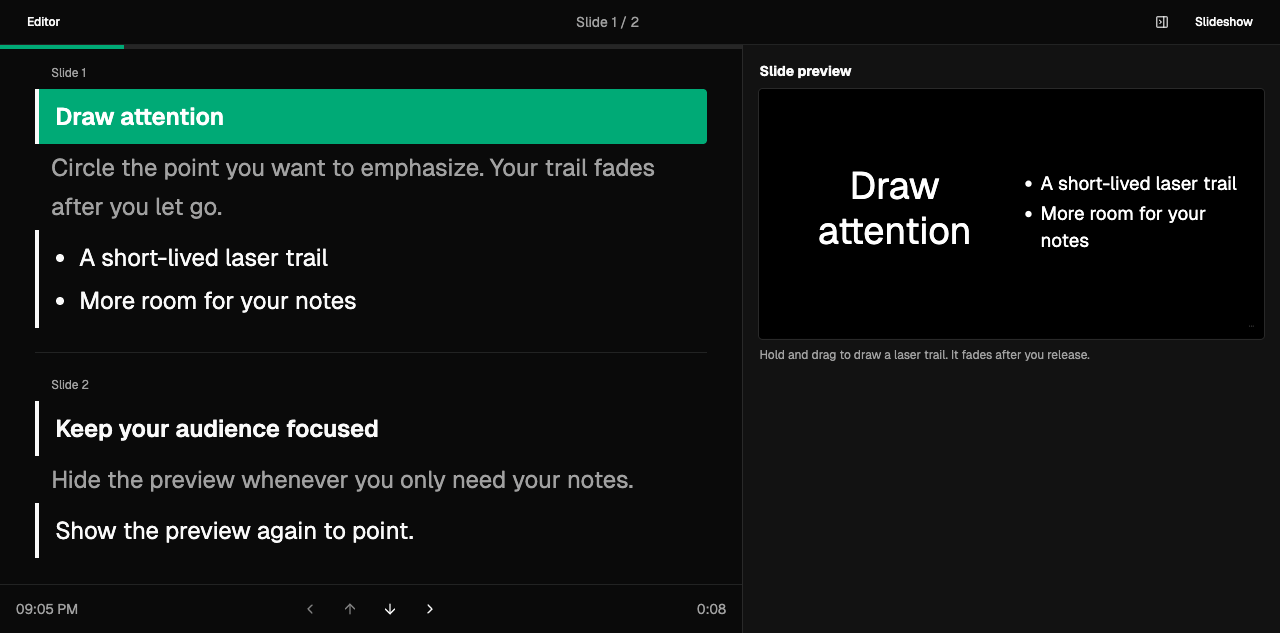
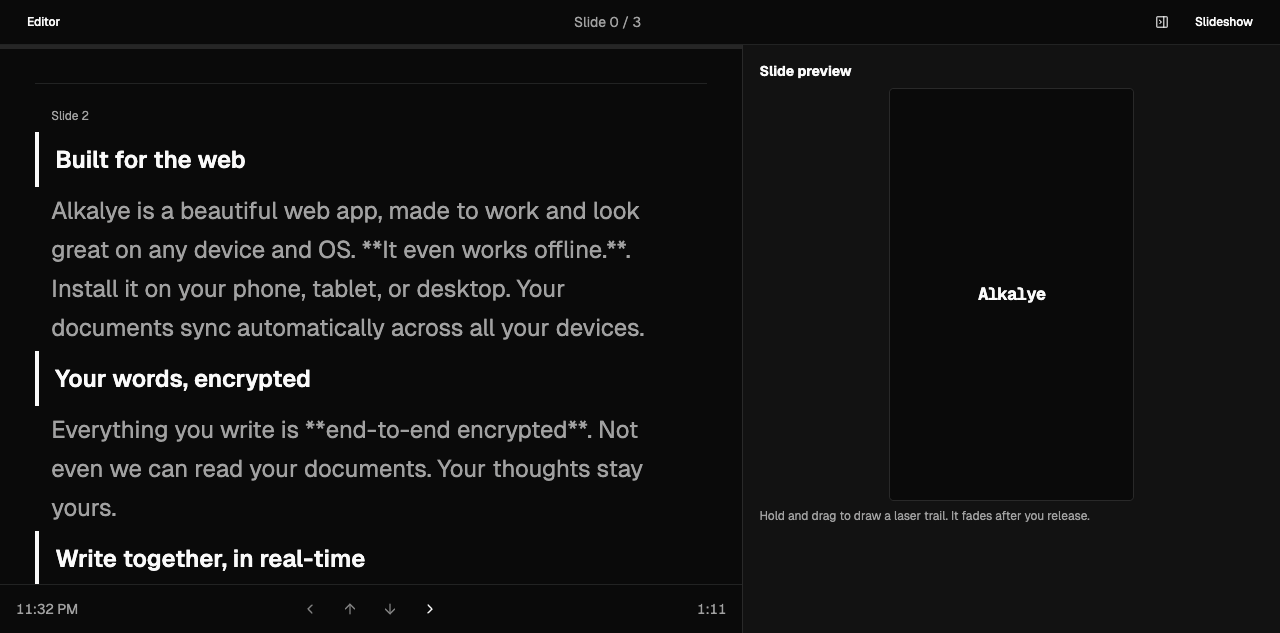
Use a laser preview dialog on narrow screens
written with GPT-6 in Codex

diff --git a/src/app/features/presentation/widgets/laser-pointer.tsx b/src/app/features/presentation/widgets/laser-pointer.tsx
@@ -1,5 +1,13 @@
 import { useEffect, useRef, useState, type PointerEvent } from "react"
 import { useAccount } from "jazz-tools/react"
+import {
+	Dialog,
+	DialogContent,
+	DialogTitle,
+	DialogClose,
+} from "@/app/components/ui/dialog"
+import { Button } from "@/app/components/ui/button"
+import { X } from "lucide-react"
 import { UserAccount } from "@/schema"
 import { createLaserChannel } from "../lib/laser-channel"
 import {
@@ -118,9 +126,13 @@ function LaserReceiver({
 function LaserPreview({
 	docId,
 	visible = true,
+	dialog = false,
+	onClose,
 }: {
 	docId: string
 	visible?: boolean
+	dialog?: boolean
+	onClose?: () => void
 }) {
 	let t = useIntl()
 	let me = useAccount(UserAccount)
@@ -128,7 +140,6 @@ function LaserPreview({
 	let [selectedId, setSelectedId] = useState<string | null>(null)
 	let [previewSize, setPreviewSize] = useState({ width: 0, height: 0 })
 	let channelRef = useRef<ReturnType<typeof createLaserChannel> | null>(null)
-	let containerRef = useRef<HTMLDivElement>(null)
 	let iframeRef = useRef<HTMLIFrameElement>(null)
 	let trailRef = useRef<LaserTrailController | null>(null)
 	let pointRef = useRef<LaserPoint | null>(null)
@@ -231,6 +242,7 @@ function LaserPreview({
 		trailRef.current?.clear()
 	}, [
 		visible,
+		dialog,
 		target?.id,
 		target?.slideNumber,
 		target?.width,
@@ -238,18 +250,22 @@ function LaserPreview({
 		target?.appearance,
 	])
 
-	useEffect(() => {
-		let container = containerRef.current
+	function observePreview(container: HTMLDivElement | null) {
 		if (!container) return
-		let observer = new ResizeObserver(() =>
-			setPreviewSize({
-				width: container.clientWidth,
-				height: container.clientHeight,
-			}),
-		)
+		function measure() {
+			if (!container) return
+			let width = container.clientWidth
+			let height = container.clientHeight
+			setPreviewSize(current =>
+				current.width === width && current.height === height
+					? current
+					: { width, height },
+			)
+		}
+		let observer = new ResizeObserver(measure)
 		observer.observe(container)
 		return () => observer.disconnect()
-	}, [visible])
+	}
 
 	function endPointer(event: PointerEvent<HTMLDivElement>) {
 		if (activePointer.current !== event.pointerId) return
@@ -314,13 +330,17 @@ function LaserPreview({
 
 	if (!visible) return null
 
-	return (
+	let preview = (
 		<aside
-			className="bg-muted/30 order-first flex shrink-0 flex-col gap-2 border-b p-3 md:order-last md:w-[42%] md:border-b-0 md:border-l md:p-4"
+			className={
+				dialog
+					? "flex min-h-0 flex-1 flex-col justify-center gap-3"
+					: "bg-muted/30 flex w-[42%] shrink-0 flex-col gap-2 border-l p-4"
+			}
 			aria-label={t("presentation.laser.label")}
 		>
 			<div className="flex items-center justify-between gap-2 text-sm">
-				<strong>{t("presentation.laser.preview")}</strong>
+				{!dialog && <strong>{t("presentation.laser.preview")}</strong>}
 				{(displays.length > 1 || (!target && displays.length > 0)) && (
 					<select
 						aria-label={t("presentation.laser.target")}
@@ -344,8 +364,12 @@ function LaserPreview({
 				)}
 			</div>
 			<div
-				ref={containerRef}
-				className="flex max-h-[30svh] w-full items-center justify-center md:max-h-[65svh]"
+				ref={observePreview}
+				className={
+					dialog
+						? "flex max-h-[75svh] w-full items-center justify-center"
+						: "flex max-h-[65svh] w-full items-center justify-center"
+				}
 				style={{
 					aspectRatio: target
 						? `${target.width} / ${target.height}`
@@ -412,5 +436,35 @@ function LaserPreview({
 				</p>
 			)}
 		</aside>
+	)
+	if (!dialog) return preview
+	return (
+		<Dialog
+			open={visible}
+			onOpenChange={open => {
+				if (!open) onClose?.()
+			}}
+			disablePointerDismissal
+		>
+			<DialogContent
+				showCloseButton={false}
+				style={{
+					paddingTop: "max(1rem, env(safe-area-inset-top))",
+					paddingBottom: "max(1rem, env(safe-area-inset-bottom))",
+					paddingLeft: "max(1rem, env(safe-area-inset-left))",
+					paddingRight: "max(1rem, env(safe-area-inset-right))",
+				}}
+				className="inset-0 top-0 left-0 flex h-dvh max-w-none translate-x-0 flex-col sm:top-0 sm:max-w-none sm:translate-y-0"
+			>
+				<div className="flex shrink-0 items-center justify-between gap-2">
+					<DialogTitle>{t("presentation.laser.preview")}</DialogTitle>
+					<DialogClose render={<Button variant="ghost" size="sm" />}>
+						<X />
+						{t("presentation.laser.notes")}
+					</DialogClose>
+				</div>
+				{preview}
+			</DialogContent>
+		</Dialog>
 	)
 }

diff --git a/src/app/features/presentation/screens/teleprompter-screen.tsx b/src/app/features/presentation/screens/teleprompter-screen.tsx
@@ -7,6 +7,7 @@ import {
 	PanelRightClose,
 	PanelRightOpen,
 	Presentation,
+	Scan,
 } from "lucide-react"
 import { Document } from "@/schema"
 import {
@@ -27,6 +28,7 @@ import {
 	useDocTitles,
 	type ResolvedDoc,
 } from "@/app/features/documents"
+import { useWidePresentation } from "../lib/presentation-layout"
 import { LaserPreview } from "../widgets/laser-pointer"
 import { Teleprompter, groupBySlide } from "../widgets/teleprompter"
 import { parsePresentation } from "../lib/presentation"
@@ -64,11 +66,14 @@ interface TeleprompterScreenProps {
 
 function TeleprompterScreen({ id, loaderData }: TeleprompterScreenProps) {
 	let navigate = useNavigate()
-	let [previewVisible, setPreviewVisible] = useState(
-		() =>
-			typeof window !== "undefined" &&
-			window.matchMedia("(min-width: 768px)").matches,
-	)
+	let wide = useWidePresentation()
+	let [desktopPreview, setDesktopPreview] = useState(true)
+	let [mobilePreview, setMobilePreview] = useState(false)
+	let previewVisible = wide ? desktopPreview : mobilePreview
+	function setPreviewVisible(visible: boolean) {
+		if (wide) setDesktopPreview(visible)
+		else setMobilePreview(visible)
+	}
 
 	useScreenWakeLock()
 
@@ -138,6 +143,7 @@ function TeleprompterScreen({ id, loaderData }: TeleprompterScreenProps) {
 		<div className="bg-background fixed inset-0 flex flex-col">
 			<TopBar
 				id={id}
+				wide={wide}
 				previewVisible={previewVisible}
 				onTogglePreview={() => setPreviewVisible(!previewVisible)}
 				currentSlideIdx={currentSlideIdx}
@@ -146,6 +152,7 @@ function TeleprompterScreen({ id, loaderData }: TeleprompterScreenProps) {
 			<div className="flex min-h-0 flex-1 flex-col md:flex-row">
 				<div className="flex min-h-0 min-w-0 flex-1 flex-col">
 					<Teleprompter
+						inactive={!wide && mobilePreview}
 						items={items}
 						wikilinks={wikilinks}
 						presentationIndex={doc.presentationLine}
@@ -153,7 +160,13 @@ function TeleprompterScreen({ id, loaderData }: TeleprompterScreenProps) {
 						onExit={() => navigate({ to: "/doc/$id", params: { id } })}
 					/>
 				</div>
-				<LaserPreview key={id} docId={id} visible={previewVisible} />
+				<LaserPreview
+					key={id}
+					docId={id}
+					visible={previewVisible}
+					dialog={!wide}
+					onClose={() => setMobilePreview(false)}
+				/>
 			</div>
 		</div>
 	)
@@ -161,12 +174,14 @@ function TeleprompterScreen({ id, loaderData }: TeleprompterScreenProps) {
 
 function TopBar({
 	id,
+	wide,
 	previewVisible,
 	onTogglePreview,
 	currentSlideIdx,
 	totalSlides,
 }: {
 	id: string
+	wide: boolean
 	previewVisible: boolean
 	onTogglePreview: () => void
 	currentSlideIdx: number
@@ -205,10 +220,15 @@ function TopBar({
 							? "presentation.laser.hide"
 							: "presentation.laser.show",
 					)}
-					aria-pressed={previewVisible}
+					aria-pressed={wide ? previewVisible : undefined}
+					aria-haspopup={wide ? undefined : "dialog"}
+					aria-expanded={wide ? undefined : previewVisible}
 					onClick={onTogglePreview}
 				>
-					{previewVisible ? <PanelRightClose /> : <PanelRightOpen />}
+					<Scan className="md:hidden" />
+					<span className="hidden md:inline-flex">
+						{previewVisible ? <PanelRightClose /> : <PanelRightOpen />}
+					</span>
 					<span className="md:hidden">
 						{t(
 							previewVisible

diff --git a/src/app/features/presentation/widgets/laser-pointer.test.ts b/src/app/features/presentation/widgets/laser-pointer.test.ts
@@ -214,8 +214,8 @@ test("retains coalesced fast movement in the final synced message", () => {
 })
 
 function prepareSurface() {
-	let frame = container.querySelector("iframe")
-	let surface = container.querySelector("[data-laser-surface]")
+	let frame = document.querySelector("iframe")
+	let surface = document.querySelector("[data-laser-surface]")
 	if (!(surface instanceof HTMLElement) || !frame?.contentDocument)
 		throw new Error("Preview missing")
 	let slide = frame.contentDocument.createElement("div")
@@ -289,4 +289,39 @@ test("bounds stationary heartbeat traffic after drawing a full sample window", a
 		clock.mockRestore()
 		vi.useRealTimers()
 	}
+})
+
+test("closing the preview dialog releases a held gesture and preserves its target", async () => {
+	let { LaserPreview } = await import("./laser-pointer")
+	function render(visible: boolean) {
+		flushSync(() =>
+			root.render(
+				React.createElement(LaserPreview, {
+					docId: "doc",
+					visible,
+					dialog: true,
+					onClose: () => render(false),
+				}),
+			),
+		)
+	}
+	render(true)
+	advertise("first")
+	advertise("second")
+	await vi.waitFor(() =>
+		expect(document.querySelector("[role=dialog]")).not.toBeNull(),
+	)
+	let surface = prepareSurface()
+	surface.dispatchEvent(pointer("pointerdown", 1))
+	let close = document.querySelector("[data-slot=dialog-close]")
+	if (!(close instanceof HTMLElement)) throw new Error("Close control missing")
+	close.click()
+	await vi.waitFor(() =>
+		expect(document.querySelector("[role=dialog]")).toBeNull(),
+	)
+	expect(transport.sent.at(-1)).toMatchObject({ type: "point", visible: false })
+	render(true)
+	await vi.waitFor(() =>
+		expect(document.querySelector("select")?.value).toBe("first"),
+	)
 })

diff --git a/src/app/features/presentation/widgets/teleprompter.tsx b/src/app/features/presentation/widgets/teleprompter.tsx
@@ -25,6 +25,7 @@ let WikilinkContext = createContext<Map<string, ResolvedDoc>>(new Map())
 type SlideGroup = { slideNumber: number; items: PresentationItem[] }
 
 interface TeleprompterProps {
+	inactive?: boolean
 	items: PresentationItem[]
 	wikilinks: Map<string, ResolvedDoc>
 	presentationIndex: number | undefined
@@ -33,6 +34,7 @@ interface TeleprompterProps {
 }
 
 function Teleprompter({
+	inactive = false,
 	items,
 	wikilinks,
 	presentationIndex,
@@ -109,6 +111,7 @@ function Teleprompter({
 				</div>
 			</div>
 			<BottomToolbar
+				inactive={inactive}
 				items={items}
 				slideGroups={slideGroups}
 				presentationIndex={presentationIndex}
@@ -172,12 +175,14 @@ function ProgressBar({
 }
 
 function BottomToolbar({
+	inactive,
 	items,
 	slideGroups,
 	presentationIndex,
 	onIndexChange,
 	onExit,
 }: {
+	inactive: boolean
 	items: PresentationItem[]
 	slideGroups: SlideGroup[]
 	presentationIndex: number | undefined
@@ -228,6 +233,7 @@ function BottomToolbar({
 	}
 
 	useEffect(() => {
+		if (inactive) return
 		function handleKeyDown(e: KeyboardEvent) {
 			if (e.key === "Escape" && onExit) {
 				e.preventDefault()

diff --git a/src/app/features/presentation/lib/presentation-layout.ts b/src/app/features/presentation/lib/presentation-layout.ts
@@ -1,0 +1,19 @@
+import { useSyncExternalStore } from "react"
+
+export { useWidePresentation }
+
+let wideQuery = "(min-width: 768px)"
+
+function useWidePresentation() {
+	return useSyncExternalStore(subscribe, getSnapshot, () => false)
+}
+
+function getSnapshot() {
+	return window.matchMedia(wideQuery).matches
+}
+
+function subscribe(onChange: () => void) {
+	let query = window.matchMedia(wideQuery)
+	query.addEventListener("change", onChange)
+	return () => query.removeEventListener("change", onChange)
+}

diff --git a/docs/jazz.md b/docs/jazz.md
@@ -109,6 +109,12 @@ Deduplicate samples per stroke, including when controllers alternate. Slide and 
 the trail immediately. Cache the SVG path until its points change; fading only
 changes opacity. Hiding the preview preserves the chosen display for reopening.
 
+Below 768 px, the preview occupies a dialog instead of sharing space with the
+teleprompter. Keep the teleprompter mounted to preserve its scroll and timer, but
+suspend its keyboard shortcuts while the dialog is open. Wider viewports use an
+inline preview. Mobile dialog state and desktop visibility are independent so
+resizing never opens a mobile dialog merely because the desktop preview was shown.
+
 Local storage notifications include the changed CoValue IDs. Reload only matching
 known values; notifications from older tabs without IDs still trigger a full reload.
 
